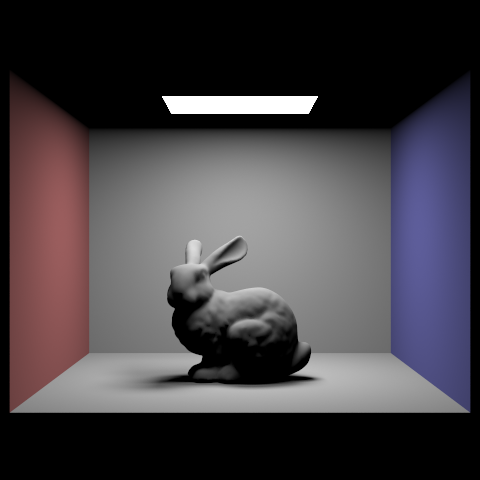
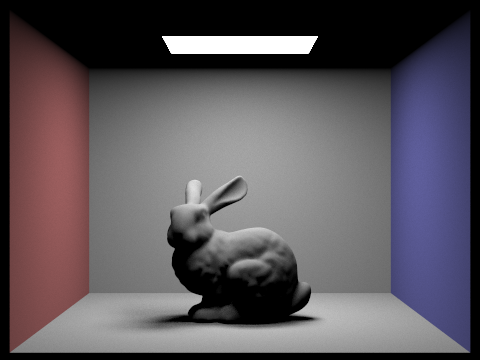
Part 4 almost done

diff --git a/docs/index.html b/docs/index.html
@@ -455,21 +455,22 @@ Specific implementation details:
       <tr>
         <td>
           <img src="images/Part4_bunny_1024_directonly.png" align="middle" width="400px"/>
-          <figcaption align="middle">A sad, dark bunny lit.<br>Lit by only direct lighting.</figcaption>
+          <figcaption align="middle">A sad, dark bunny.<br>Lit by only direct lighting.</figcaption>
         </td>
         <td>
-            <img src="images/Part4_spheres_1024_directonly.png" align="middle" width="400px"/>
-            <figcaption align="middle">Even sadder, darker spheres.<br>Also only direct lighting.</figcaption>
+            <img src="images/Part4_bunny_1024_indirectonly.png" align="middle" width="400px"/>
+            <figcaption align="middle">Bunny lit by only indirect lighting. <br>
+            We can see the colours reflected off the walls.</figcaption>
           </td>
       </tr>
       <tr>
         <td>
-          <img src="images/Part3_spheres_ray16_samples1.png" align="middle" width="400px"/>
-          <figcaption align="middle">Wait, these aren't bunnies, why are there so many?</figcaption>
+          <img src="images/Part4_spheres_1024_directonly.png" align="middle" width="400px"/>
+          <figcaption align="middle">Even sadder, darker spheres.<br>Also only direct lighting.</figcaption>
         </td>
         <td>
-            <img src="images/Part3_spheres_ray64_samples1.png" align="middle" width="400px"/>
-            <figcaption align="middle">Oh, light rays are mathematical bunnies. At least they aren't that noisy.</figcaption>
+            <img src="images/Part4_spheres_1024_indirectonly.png" align="middle" width="400px"/>
+            <figcaption align="middle">Spheres lit by only indirect lighting.<br>The spheres have colour from the walls.</figcaption>
           </td>
       </tr>
     </table>
@@ -513,7 +514,53 @@ Specific implementation details:
         </td>
       </tr>
 </div>
-  
+
+<h3>Sample-per-pixel rates at 1, 2, 4, 8, 64, 512, 1048 with 4 light rays, at depth of 5.</h3>
+
+<div align="middle">
+    <table style="width=100%">
+      <tr>
+        <td>
+          <img src="images/Part4_spheres_1sample_4rays.png" align="middle" width="400px"/>
+          <figcaption align="middle">Colour is reflected off the walls, but the image is noisy.<br>Only 1 sample per pixel.</figcaption>
+        </td>
+        <td>
+            <img src="images/Part4_spheres_2sample_4rays.png" align="middle" width="400px"/>
+            <figcaption align="middle">An improvement, but not enough.<br>2 samples per pixel.</figcaption>
+          </td>
+      </tr>
+      <tr>
+        <td>
+          <img src="images/Part4_spheres_4sample_4rays.png" align="middle" width="400px"/>
+          <figcaption align="middle">Noise is decreasing with increasing samples.<br>4 samples per pixel.</figcaption>
+        </td>
+        <td>
+            <img src="images/Part4_spheres_8sample_4rays.png" align="middle" width="400px"/>
+            <figcaption align="middle">It's like slenderman in reverse!<br>8 samples per pixel.</figcaption>
+          </td>
+      </tr>
+      <tr>
+          <td>
+            <img src="images/Part4_spheres_16sample_4rays.png" align="middle" width="400px"/>
+            <figcaption align="middle">Is slenderman still here?<br>16 samples per pixel.</figcaption>
+          </td>
+          <td>
+              <img src="images/Part4_spheres_64sample_4rays.png" align="middle" width="400px"/>
+              <figcaption align="middle">Noise is almost gone!<br>64 samples per pixel.</figcaption>
+            </td>
+        </tr>
+        <tr>
+            <td>
+              <img src="images/Part4_spheres_512sample_4rays.png" align="middle" width="400px"/>
+              <figcaption align="middle">Is the noise really gone?<br>512 samples per pixel.</figcaption>
+            </td>
+            <td>
+                <img src="images/Part4_spheres_1024sample_4rays.png" align="middle" width="400px"/>
+                <figcaption align="middle">Yep, I think we're safe now. No more noise.<br>1024 samples per pixel.</figcaption>
+              </td>
+          </tr>
+    </table>
+  </div>  
 
 <h2 align="middle">Part 5: Adaptive Sampling</h2>
 

diff --git a/src/pathtracer.cpp b/src/pathtracer.cpp
@@ -713,7 +713,6 @@ Spectrum PathTracer::est_radiance_global_illumination(const Ray &r) {
   // parts of global illumination into L_out rather than just direct
 
   L_out = zero_bounce_radiance(r, isect) + at_least_one_bounce_radiance(r, isect);
-  
   return L_out;
 }
 
